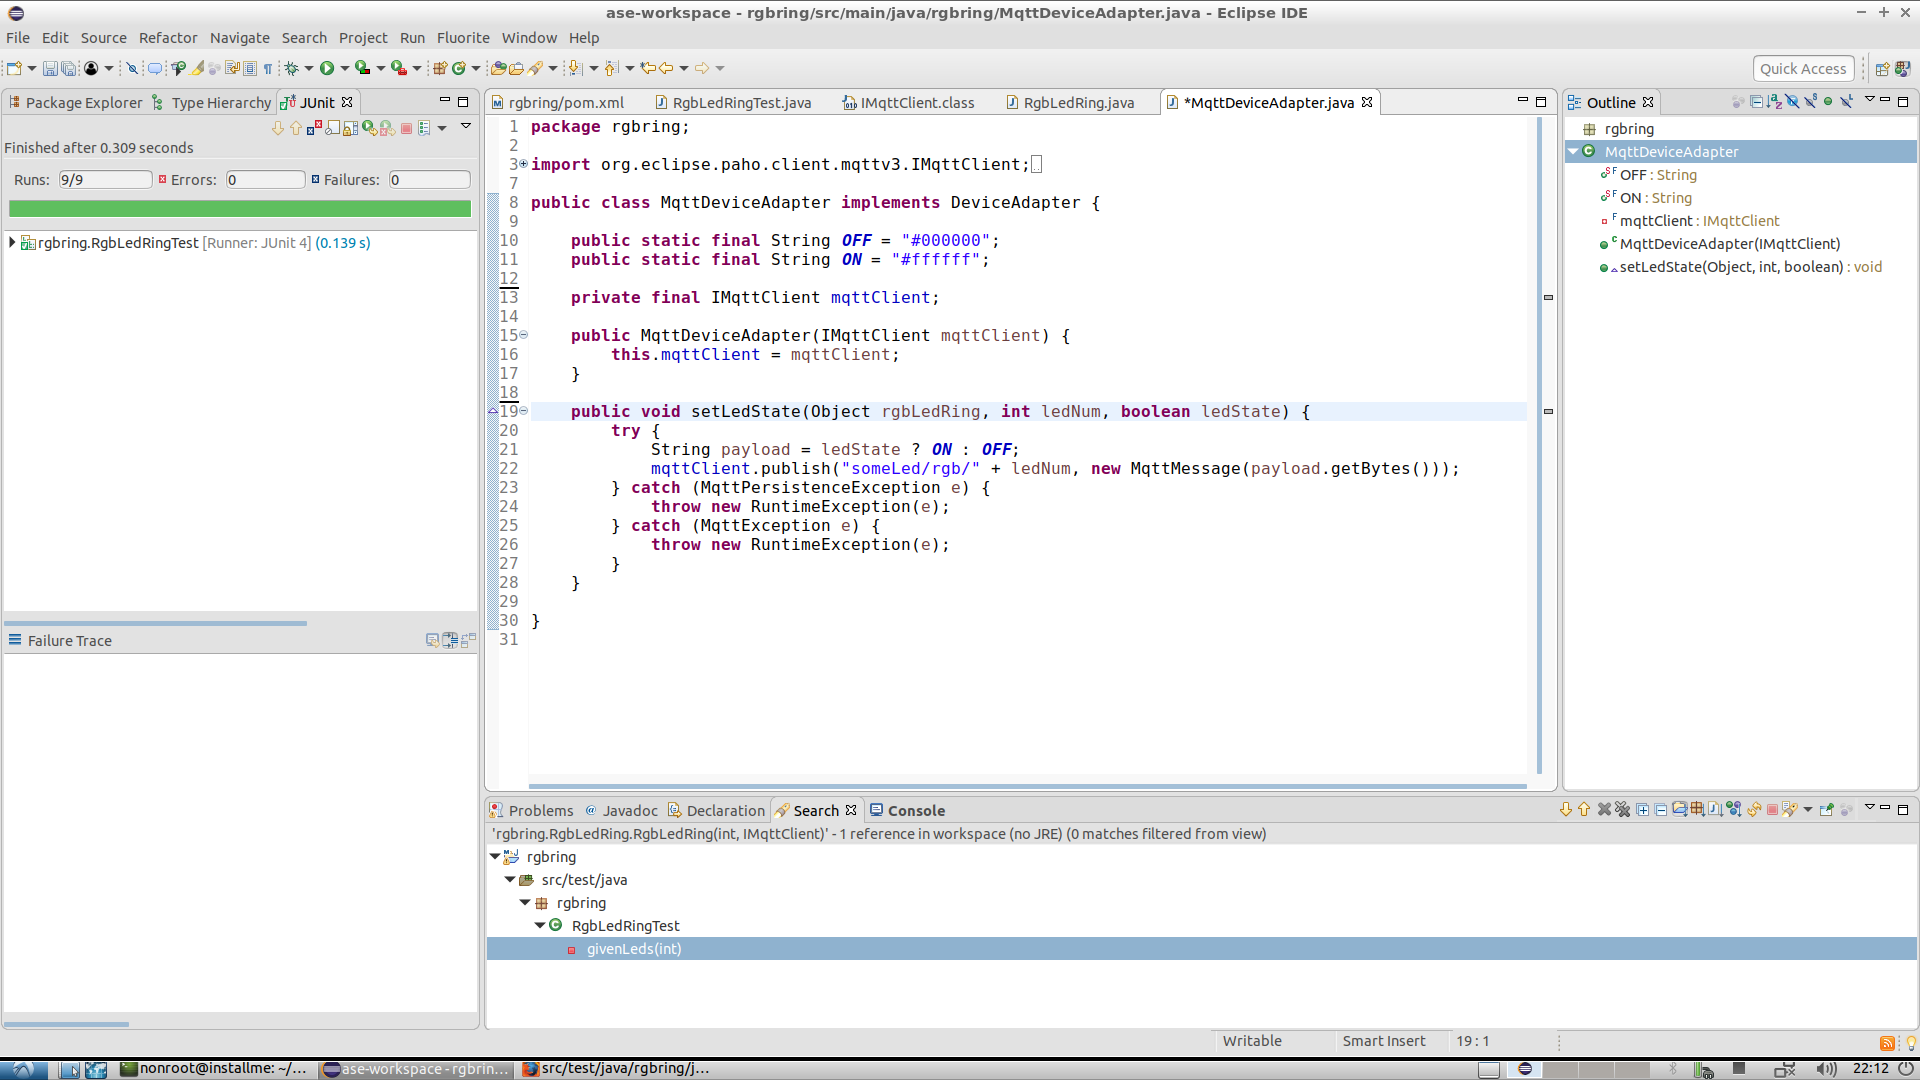
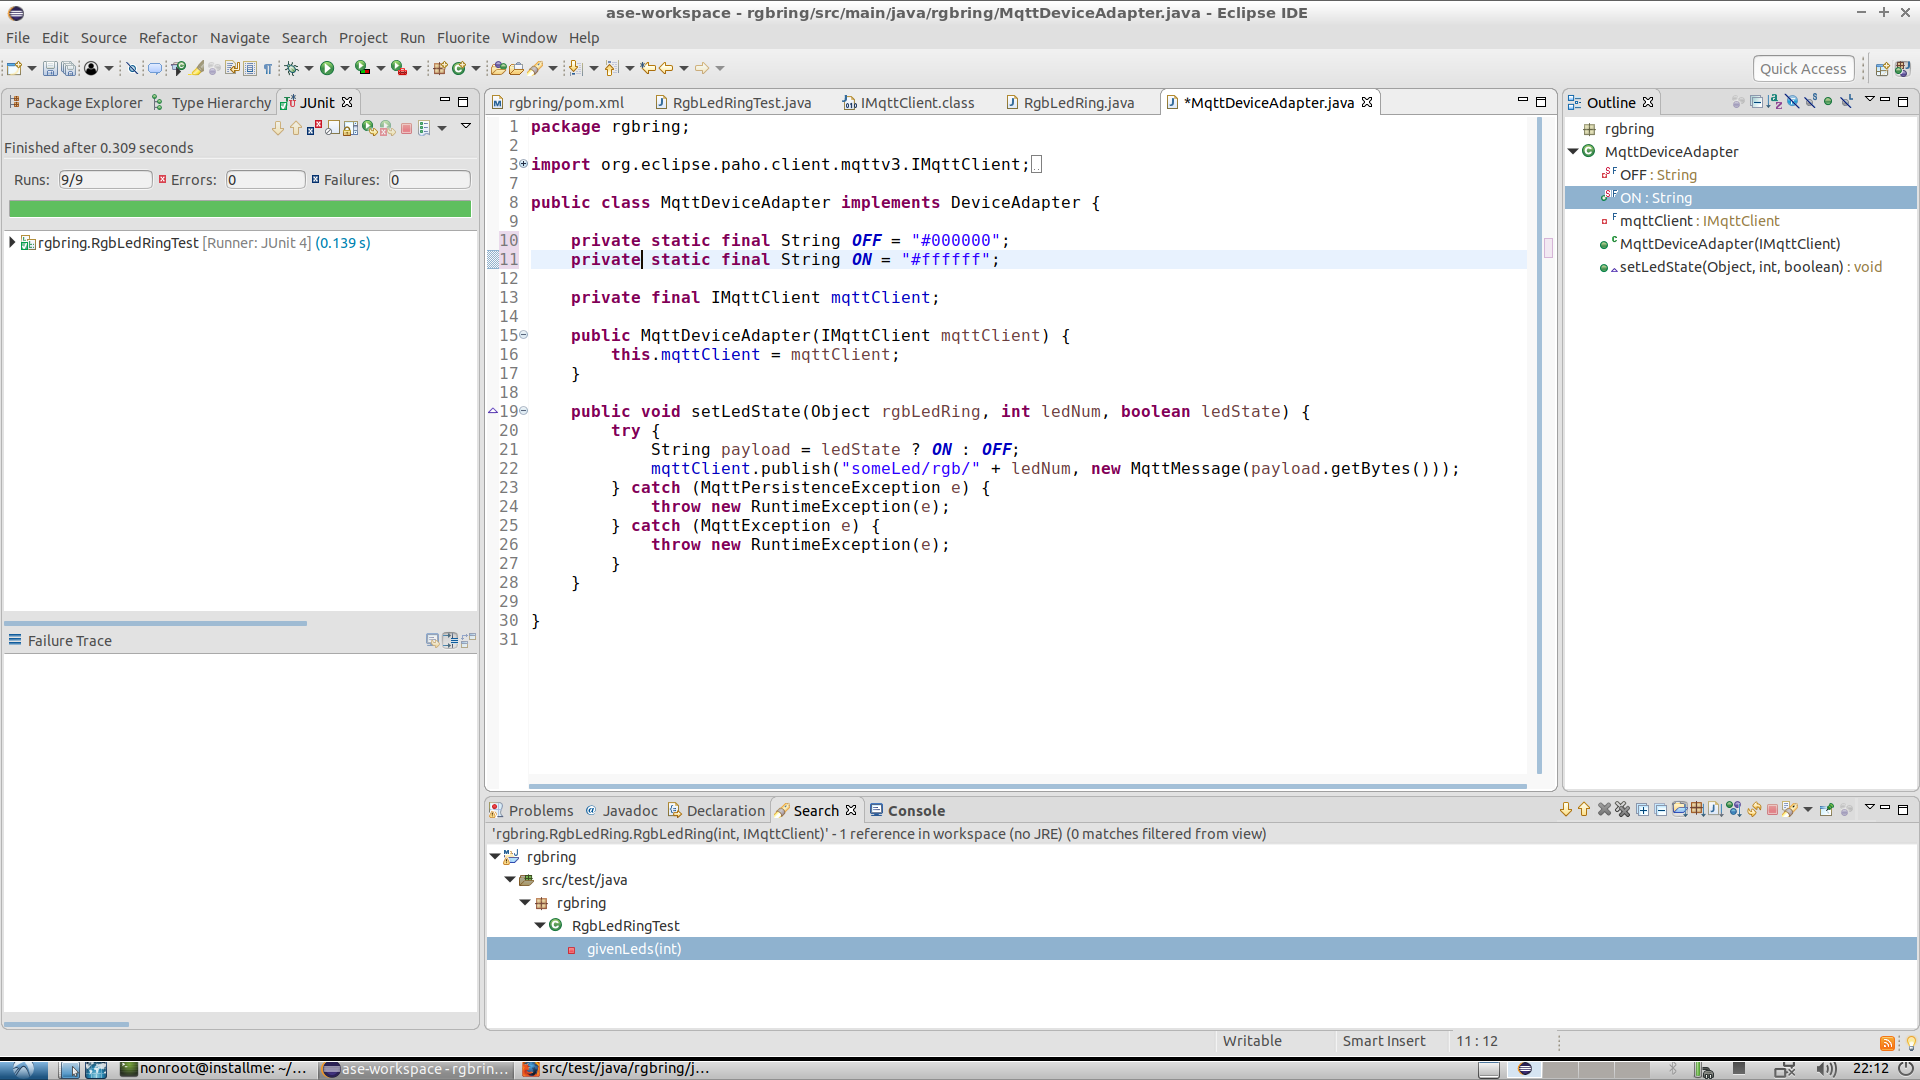
autocommit on change

Changed region(s): [[0.8125, 0.1222, 1.0, 0.2139], [0.25, 0.2139, 0.5312, 0.275], [0.25, 0.3667, 0.2812, 0.3972]]

diff --git a/src/main/java/rgbring/MqttDeviceAdapter.java b/src/main/java/rgbring/MqttDeviceAdapter.java
@@ -7,8 +7,8 @@ import org.eclipse.paho.client.mqttv3.MqttPersistenceException;
 
 public class MqttDeviceAdapter implements DeviceAdapter {
 
-	public static final String OFF = "#000000";
-	public static final String ON = "#ffffff";
+	private static final String OFF = "#000000";
+	private static final String ON = "#ffffff";
 
 	private final IMqttClient mqttClient;
 
